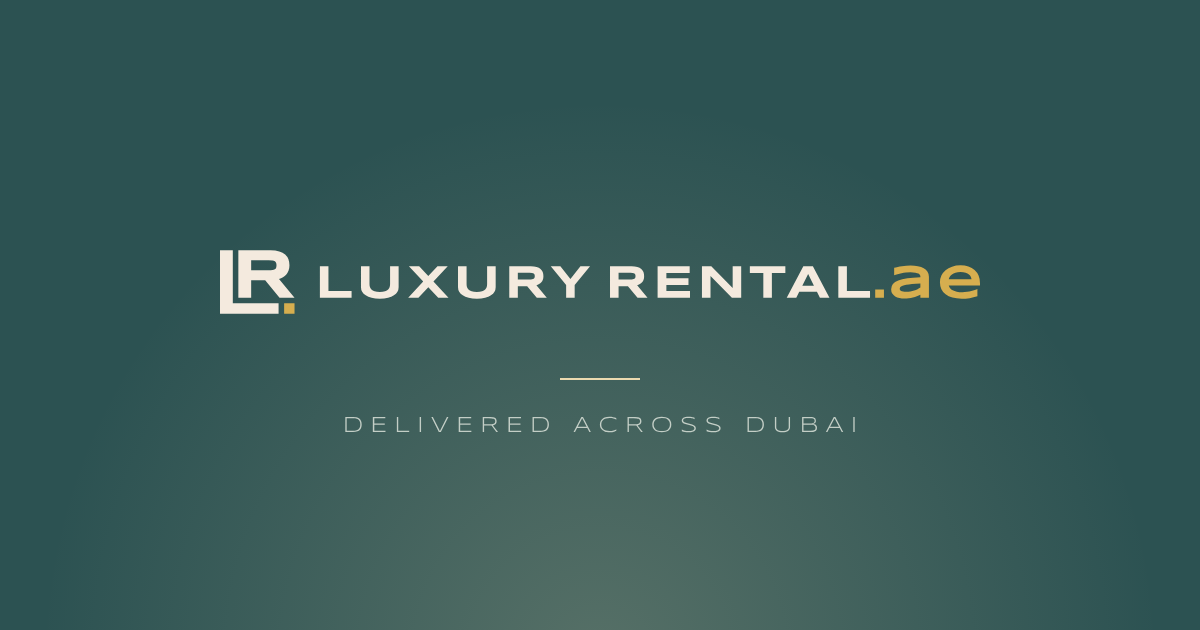
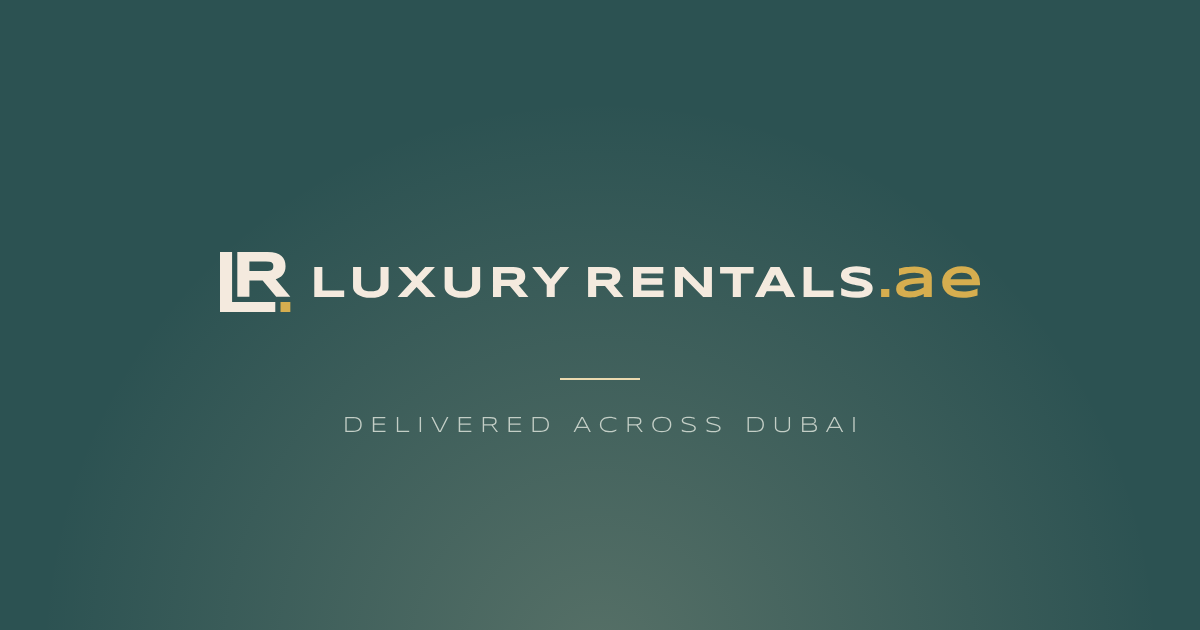
Rename the brand to LuxuryRentals.ae
Zubair corrected the brand: it is "LuxuryRentals.ae", not "LuxuryRental.ae".

- Logo: wordmark regenerated from docs/brand/source with "LUXURY RENTALS"
  (new kerning for LS and S.), every file in the pack, Logo.tsx, the
  master artboard and the share template.
- Site: brandName, domain luxuryrentals.ae, www URL and the bookings,
  privacy and ops emails; manifest, page titles (en/ar), the ops email
  sender, the car share images and the legal Terms of Use.
- Header: the wider wordmark was being squeezed below 100 px between
  1024 and 1279 px (since the language switch was added), so the desktop
  text menu now starts at 1280 px and smaller laptops use the menu button.
- Docs: current docs and plans renamed; past records (thread, plan
  answers, prototype) keep the old spelling, with a correction note.

Claude-Session: https://claude.ai/code/session_014oyyY9etPpEEpY1aKo6VXx

Changed region(s): [[0.185, 0.3921, 0.8017, 0.5127]]

diff --git a/src/components/brand/Logo.tsx b/src/components/brand/Logo.tsx
@@ -1,15 +1,15 @@
 import clsx from "clsx";
 
-// LuxuryRental.ae logo, direction "Corner". Outlines are Syncopate Bold (SIL OFL 1.1),
+// LuxuryRentals.ae logo, direction "Corner". Outlines are Syncopate Bold (SIL OFL 1.1),
 // generated by docs/brand/source/brandkit.py: edit the source, not these paths.
 // Letters use currentColor; the ".ae" and the monogram's full-stop square use the logo gold
 // (Burnished Gold, deeper than the Antique Gold of the buttons).
 // Usage rules: docs/brand/logo.md. Files for everything else: public/brand/.
 
 const LOCKUP = {
-  viewBox: "0 0 2397.4 200",
-  letters: "M0 200V0h40.4v200Zm0 0v-32.8h184.8V200Zm98.3-50.3H57.9V0h101.3q16.4 0 27.8 3.4t18.5 9.6 10.4 15q3.2 8.7 3.2 19.5 0 9.5-2.7 16.6t-7.2 12.1-10.5 8.6-12.6 5.8l49 59.1h-47.3l-45.3-55.1H98.3Zm79.9-102.4q0-4.4-1.1-7.4-1.2-3.1-4-5-2.9-1.9-7.6-2.8t-11.8-.8H98.3v32h55.4q7.1 0 11.8-.9t7.6-2.7 4-5q1.1-3 1.1-7.4M315.1 150V50h27v78.1h73V150Zm248.4-33.7q0 7.5-3.7 14.1T548.6 142t-18.5 7.8-25.9 2.9-26-2.9-18.6-7.8q-7.5-5-11.2-11.6t-3.7-14.1V50h26.9v56.6q0 5 1.3 9.5t4.8 7.8 9.9 5.4q6.4 1.9 16.6 1.9 10.1 0 16.4-1.9 6.4-2 9.9-5.4 3.5-3.3 4.7-7.8t1.3-9.5V50h27zm109.8-17.6 47.5 51.3h-32.4l-31.3-33.7-31.2 33.7h-32.3L641 98.7 595.9 50h32.4l28.8 31.3L686 50h32.4Zm196.3 17.6q0 7.5-3.7 14.1T854.8 142q-7.5 4.9-18.6 7.8t-25.9 2.9-26-2.9-18.6-7.8-11.2-11.6-3.7-14.1V50h27v56.6q0 5 1.2 9.5 1.3 4.5 4.8 7.8 3.6 3.4 9.9 5.4 6.4 1.9 16.6 1.9 10.1 0 16.4-1.9 6.4-2 9.9-5.4 3.5-3.3 4.8-7.8t1.2-9.5V50h27zm69.9 33.7h-27V50h67.7q10.9 0 18.6 2.3 7.6 2.2 12.3 6.4 4.8 4.1 6.9 10 2.2 5.8 2.2 13 0 6.4-1.8 11.1t-4.8 8.1-7 5.7q-4 2.4-8.5 3.9l32.8 39.5h-31.6L969 113.2h-29.5Zm53.4-68.4q0-2.9-.8-5-.7-2-2.6-3.3t-5.1-1.8-7.9-.6h-37v21.4h37q4.7 0 7.9-.6t5.1-1.9q1.9-1.2 2.6-3.3t.8-4.9m125.9 27.6V150h-26.9v-40.8L1043.4 50h30.3l31.7 40.2L1137 50h30.3Zm138.5 40.8h-27V50h67.7q10.9 0 18.5 2.3t12.4 6.4q4.7 4.1 6.9 10 2.1 5.8 2.1 13 0 6.4-1.7 11.1-1.8 4.7-4.8 8.1-3.1 3.4-7.1 5.7t-8.4 3.9l32.7 39.5h-31.5l-30.3-36.8h-29.5Zm53.4-68.4q0-2.9-.8-5-.8-2-2.7-3.3t-5-1.8q-3.2-.6-7.9-.6h-37v21.4h37q4.7 0 7.9-.6 3.1-.6 5-1.9t2.7-3.3.8-4.9m69.7 68.4V50h101.2v21.3h-73.5v16.5h69.7v21.4h-69.7v19.5h74.5V150Zm234.4 0-67.5-68.7V150h-27V50h29.4l67.5 69V50h26.9v100Zm126.1-78.2V150h-27V71.8h-42.5V50h112v21.8Zm142.1 59.3h-55.8l-9.3 18.9h-30.2l52.4-100h30.1l52.3 100h-30.1Zm-46.1-19.5h36.6l-18.2-36.9Zm113.6 38.4V50h27v78.1h73V150Z",
-  accent: "M202.3 200v-32.8h32.8V200Zm1864.5-50v-26.2h27.6V150Zm142.5 0v-9.8q-5.2 2.8-11.1 5-6 2.2-12.4 3.7t-13.2 2.3-13.7.8q-8.1 0-15.6-1.6-7.5-1.5-13.4-4.9-5.8-3.4-9.3-9t-3.5-13.5q0-10.1 5.5-16.9t16.9-11q11.3-4.3 28.7-6.6t41.1-3.6v-2.1q0-2.5-1.3-5-1.4-2.4-4.8-4.3-3.5-1.8-9.5-3t-15.3-1.1q-7.3 0-14.5.7-7.2.8-13.8 2.1t-12.7 3.1q-5.9 1.7-10.8 3.6v-24q5.1-1.3 11.4-2.6 6.3-1.2 13.2-2.1t13.8-1.5q7-.5 13.4-.5 12.6 0 23.2 2.1 10.7 2 18.3 6.4t12 11.1 4.4 15.9V150Zm0-45.6q-15.6.5-26.5 1.6t-18.1 2.6-11.3 3.1-6.1 3.4-2.6 3.5q-.4 1.8-.4 3.2 0 1.8.9 3.4 1 1.7 3.3 2.9 2.4 1.2 6.3 2 4 .7 9.9.7 6.6 0 13-1 6.3-1.1 12-2.8 5.7-1.8 10.7-4.3 4.9-2.4 8.9-5.2Zm179.9 40.7q-12.3 4-24.6 5.8-12.2 1.8-25.1 1.8-16.3 0-29.1-3.5-12.8-3.6-21.5-10.3t-13.3-16.3-4.6-21.9q0-11.4 4.6-21.1t13.1-16.9 20.5-11.2 26.8-4q13.6 0 24.9 3.6 11.3 3.7 19.4 10.9 8.2 7.2 12.6 17.8 4.5 10.5 4.5 24.3v6.7h-98.5q1.3 4.7 4.3 8.6 3 4 8.2 6.7t12.7 4.3 18 1.6q7.4 0 14.5-1 7.2-.9 13.4-2.4t11.1-3.3q5-1.8 8.1-3.6ZM2370.5 91q-.3-3.7-2.2-7.7-1.8-4-5.8-7.2t-10.5-5.2-16.2-2.1q-9.1 0-15.7 2.2t-11.1 5.6-6.9 7.2-3.2 7.2Z",
+  viewBox: "0 0 2540.1 200",
+  letters: "M0 200V0h40.4v200Zm0 0v-32.8h184.8V200Zm98.3-50.3H57.9V0h101.3q16.4 0 27.8 3.4t18.5 9.6 10.4 15q3.2 8.7 3.2 19.5 0 9.5-2.7 16.6t-7.2 12.1-10.5 8.6-12.6 5.8l49 59.1h-47.3l-45.3-55.1H98.3Zm79.9-102.4q0-4.4-1.1-7.4-1.2-3.1-4-5-2.9-1.9-7.6-2.8t-11.8-.8H98.3v32h55.4q7.1 0 11.8-.9t7.6-2.7 4-5q1.1-3 1.1-7.4M315.1 150V50h27v78.1h73V150Zm248.4-33.7q0 7.5-3.7 14.1T548.6 142t-18.5 7.8-25.9 2.9-26-2.9-18.6-7.8q-7.5-5-11.2-11.6t-3.7-14.1V50h26.9v56.6q0 5 1.3 9.5t4.8 7.8 9.9 5.4q6.4 1.9 16.6 1.9 10.1 0 16.4-1.9 6.4-2 9.9-5.4 3.5-3.3 4.7-7.8t1.3-9.5V50h27zm109.8-17.6 47.5 51.3h-32.4l-31.3-33.7-31.2 33.7h-32.3L641 98.7 595.9 50h32.4l28.8 31.3L686 50h32.4Zm196.3 17.6q0 7.5-3.7 14.1T854.8 142q-7.5 4.9-18.6 7.8t-25.9 2.9-26-2.9-18.6-7.8-11.2-11.6-3.7-14.1V50h27v56.6q0 5 1.2 9.5 1.3 4.5 4.8 7.8 3.6 3.4 9.9 5.4 6.4 1.9 16.6 1.9 10.1 0 16.4-1.9 6.4-2 9.9-5.4 3.5-3.3 4.8-7.8t1.2-9.5V50h27zm69.9 33.7h-27V50h67.7q10.9 0 18.6 2.3 7.6 2.2 12.3 6.4 4.8 4.1 6.9 10 2.2 5.8 2.2 13 0 6.4-1.8 11.1t-4.8 8.1-7 5.7q-4 2.4-8.5 3.9l32.8 39.5h-31.6L969 113.2h-29.5Zm53.4-68.4q0-2.9-.8-5-.7-2-2.6-3.3t-5.1-1.8-7.9-.6h-37v21.4h37q4.7 0 7.9-.6t5.1-1.9q1.9-1.2 2.6-3.3t.8-4.9m125.9 27.6V150h-26.9v-40.8L1043.4 50h30.3l31.7 40.2L1137 50h30.3Zm138.5 40.8h-27V50h67.7q10.9 0 18.5 2.3t12.4 6.4q4.7 4.1 6.9 10 2.1 5.8 2.1 13 0 6.4-1.7 11.1-1.8 4.7-4.8 8.1-3.1 3.4-7.1 5.7t-8.4 3.9l32.7 39.5h-31.5l-30.3-36.8h-29.5Zm53.4-68.4q0-2.9-.8-5-.8-2-2.7-3.3t-5-1.8q-3.2-.6-7.9-.6h-37v21.4h37q4.7 0 7.9-.6 3.1-.6 5-1.9t2.7-3.3.8-4.9m69.7 68.4V50h101.2v21.3h-73.5v16.5h69.7v21.4h-69.7v19.5h74.5V150Zm234.4 0-67.5-68.7V150h-27V50h29.4l67.5 69V50h26.9v100Zm126.1-78.2V150h-27V71.8h-42.5V50h112v21.8Zm142.1 59.3h-55.8l-9.3 18.9h-30.2l52.4-100h30.1l52.3 100h-30.1Zm-46.1-19.5h36.6l-18.2-36.9Zm113.6 38.4V50h27v78.1h73V150ZM2173 78.2q-2.8-1.4-7.5-3.2-4.6-1.7-10.5-3.3t-12.8-2.6T2128 68q-5.9 0-10 .4t-6.9 1-4.4 1.3-2.5 1.6-1.2 1.6l-.2 1.4q0 2.2 2.2 3.8 2.2 1.7 5.9 3 3.8 1.2 8.8 2.4l10.7 2.3 11.7 2.6q6 1.4 11.6 3.3t10.7 4.4 8.8 5.9 5.9 7.7 2.2 10q0 7.2-2.5 12.3-2.6 5.2-6.8 8.8-4.3 3.5-9.9 5.7-5.6 2.1-11.7 3.3-6.2 1.2-12.5 1.5t-12 .4q-14.8 0-27.4-2.4-12.7-2.5-22.3-6.1v-23.9q9.9 5.5 22.7 8.7t27.3 3.1q8.6 0 14-.9t8.5-2.3 4.2-3.1 1.1-3.2q0-2.4-2.2-4.2t-6-3.2q-3.8-1.3-8.8-2.4-5-1.2-10.7-2.3l-11.6-2.4q-5.9-1.3-11.6-3.1t-10.6-4.2q-5.1-2.3-8.9-5.6-3.7-3.2-5.9-7.5t-2.2-9.8q0-6.6 2.3-11.5 2.4-4.8 6.3-8.1 4-3.4 9.2-5.5t10.9-3.3 11.7-1.6 11.2-.4q5.8 0 12 .5 6.1.6 12.1 1.7 6 1 11.5 2.4T2173 55Z",
+  accent: "M202.3 200v-32.8h32.8V200Zm2007.3-50v-26.2h27.5V150Zm142.4 0v-9.8q-5.2 2.8-11.1 5t-12.3 3.7-13.3 2.3-13.7.8q-8.1 0-15.6-1.6-7.5-1.5-13.3-4.9t-9.4-9-3.5-13.5q0-10.1 5.5-16.9t16.9-11q11.3-4.3 28.7-6.6t41.1-3.6v-2.1q0-2.5-1.3-5-1.3-2.4-4.8-4.3-3.4-1.8-9.4-3t-15.4-1.1q-7.3 0-14.5.7-7.2.8-13.8 2.1t-12.6 3.1-10.9 3.6v-24q5.1-1.3 11.4-2.6 6.4-1.2 13.2-2.1 6.9-.9 13.8-1.5t13.4-.5q12.6 0 23.2 2.1 10.7 2 18.4 6.4t12 11.1 4.3 15.9V150Zm0-45.6q-15.6.5-26.5 1.6t-18.1 2.6-11.3 3.1-6.1 3.4q-2.1 1.8-2.5 3.5-.5 1.8-.5 3.2 0 1.8.9 3.4 1 1.7 3.4 2.9 2.3 1.2 6.2 2 4 .7 9.9.7 6.7 0 13-1 6.3-1.1 12-2.8 5.7-1.8 10.7-4.3 5-2.4 8.9-5.2Zm179.9 40.7q-12.3 4-24.6 5.8-12.2 1.8-25 1.8-16.4 0-29.2-3.5-12.8-3.6-21.5-10.3t-13.3-16.3-4.6-21.9q0-11.4 4.6-21.1 4.7-9.7 13.1-16.9 8.5-7.2 20.5-11.2t26.8-4q13.6 0 24.9 3.6 11.3 3.7 19.5 10.9t12.6 17.8q4.4 10.5 4.4 24.3v6.7h-98.5q1.3 4.7 4.3 8.6 3 4 8.2 6.7t12.7 4.3 18 1.6q7.4 0 14.6-1t13.3-2.4 11.2-3.3q4.9-1.8 8-3.6ZM2513.3 91q-.4-3.7-2.2-7.7t-5.9-7.2-10.5-5.2q-6.5-2.1-16.1-2.1-9.1 0-15.8 2.2-6.6 2.3-11.1 5.6-4.4 3.4-6.9 7.2t-3.2 7.2Z",
 };
 
 const MONOGRAM = {
@@ -18,10 +18,11 @@ const MONOGRAM = {
   accent: "M101.1 100V83.6h16.4V100Z",
 };
 
-// Header and footer sizes: about 206 px wide on small phones (wordmark cap height ~8.5 px,
-// like the prototype's 12 px text logo), larger from 400 px, held back at lg so the
-// desktop nav fits. max-w-full lets it shrink inside narrow footer columns.
-const LOCKUP_SIZE = "w-[206px] min-[400px]:w-[236px] sm:w-[280px] lg:w-[236px] xl:w-[290px]";
+// Header and footer sizes: about 218 px wide on small phones (wordmark cap height ~8.5 px,
+// like the prototype's 12 px text logo), larger from 400 px. The desktop nav only appears
+// from xl, so the logo keeps its size up to there. max-w-full lets it shrink inside narrow
+// footer columns and on the smallest phones.
+const LOCKUP_SIZE = "w-[218px] min-[400px]:w-[250px] sm:w-[296px] xl:w-[306px]";
 const MONOGRAM_SIZE = "w-9";
 
 export function Logo({ className, compact = false }: { className?: string; compact?: boolean }) {
@@ -30,7 +31,7 @@ export function Logo({ className, compact = false }: { className?: string; compa
     <svg
       viewBox={art.viewBox}
       role="img"
-      aria-label="LuxuryRental.ae"
+      aria-label="LuxuryRentals.ae"
       preserveAspectRatio="xMinYMid meet"
       className={clsx("block h-auto max-w-full text-fg", className ?? (compact ? MONOGRAM_SIZE : LOCKUP_SIZE))}
     >

diff --git a/src/app/[lang]/cars/[brand]/[model]/opengraph-image.tsx b/src/app/[lang]/cars/[brand]/[model]/opengraph-image.tsx
@@ -19,7 +19,7 @@ import arFleet from "@/messages/ar/fleet.json";
 // in Noto Kufi Arabic (OFL, assets/fonts) and placed as images; the layout mirrors, the car
 // picture and the wordmark don't. Brand and model names stay in Latin script, in Syncopate.
 
-export const alt = "A car available to rent in Dubai from LuxuryRental.ae";
+export const alt = "A car available to rent in Dubai from LuxuryRentals.ae";
 export const size = { width: 1200, height: 630 };
 export const contentType = "image/png";
 
@@ -61,7 +61,7 @@ export default async function Image({ params }: { params: Promise<{ lang: string
   const t = (key: string, vars?: Record<string, string | number>) => translate(ar ? messages.ar : messages.en, key, vars);
   const car = getCarByPath(brand, model);
   const [[bold, regular], logoSrc, hero] = await Promise.all([fonts, logo, cardSrc(car ? carMedia[car.slug]?.card : undefined)]);
-  const name = car?.model ?? "LuxuryRental.ae";
+  const name = car?.model ?? "LuxuryRentals.ae";
   const make = car ? getBrand(car.brand)?.name ?? "" : "";
   const price = car ? t(car.rates.onRequest ? "og.priceOnRequest" : "og.price", { price: formatAED(car.rates.daily, lang) }) : "";
 
@@ -81,7 +81,7 @@ export default async function Image({ params }: { params: Promise<{ lang: string
         {hero && <img src={hero} width={840} height={630} alt="" style={{ position: "absolute", top: 0, [side]: 0, width: 840, height: 630 }} />}
         <div style={{ position: "absolute", top: 0, bottom: 0, [edge]: 360, width: 220, display: "flex", background: `linear-gradient(${ar ? 270 : 90}deg, #1d3c3c 0%, rgba(29,60,60,0) 100%)` }} />
         <div style={{ position: "absolute", top: 52, [edge]: 60, display: "flex" }}>
-          <img src={logoSrc} width={330} height={28} alt="" />
+          <img src={logoSrc} width={356} height={28} alt="" />
         </div>
         <div style={{ position: "absolute", [edge]: 60, bottom: 64, display: "flex", flexDirection: "column", alignItems: ar ? "flex-end" : "flex-start", width: 420 }}>
           <div style={{ fontSize: 22, letterSpacing: 6, color: "#ebdab0", fontWeight: 400 }}>{make.toUpperCase()}</div>

diff --git a/src/content/site.ts b/src/content/site.ts
@@ -4,17 +4,17 @@
 // While `sampleDetails` is true, the footer and About page say they are samples.
 
 export const site = {
-  brandName: "LuxuryRental.ae", // wordmark, approved 23 Oct 2026
+  brandName: "LuxuryRentals.ae", // wordmark and domain (corrected from "LuxuryRental.ae" by Zubair, 26 Oct 2026)
   businessName: "Luxuryrentals", // trade name: legal text, footer, Google Business
   legalName: "Luxuryrentals Car Rental L.L.C.", // assumed
-  domain: "luxuryrental.ae",
-  url: "https://www.luxuryrental.ae",
+  domain: "luxuryrentals.ae",
+  url: "https://www.luxuryrentals.ae",
   whatsapp: "971529652722", // wa.me format
   whatsappDisplay: "+971 52 965 2722",
   phone: "+971 52 965 2722",
-  email: "bookings@luxuryrental.ae",
-  privacyEmail: "privacy@luxuryrental.ae",
-  opsEmail: "ops@luxuryrental.ae", // ops alerts and request emails (assumed)
+  email: "bookings@luxuryrentals.ae",
+  privacyEmail: "privacy@luxuryrentals.ae",
+  opsEmail: "ops@luxuryrentals.ae", // ops alerts and request emails (assumed)
   address: {
     line1: "Office 1208, Silicon Oasis HQ", // assumed
     area: "Dubai Silicon Oasis",

diff --git a/src/components/layout/MobileMenu.tsx b/src/components/layout/MobileMenu.tsx
@@ -19,7 +19,7 @@ export function MobileMenu({ nav, groups, labels, reserveHref, account }: { nav:
 
   return (
     <>
-      <button type="button" className="inline-flex h-11 w-11 items-center justify-center rounded-full border border-line text-fg lg:hidden" aria-label={labels.menu} aria-haspopup="dialog" onClick={() => ref.current?.showModal()}>
+      <button type="button" className="inline-flex h-11 w-11 items-center justify-center rounded-full border border-line text-fg xl:hidden" aria-label={labels.menu} aria-haspopup="dialog" onClick={() => ref.current?.showModal()}>
         <Menu className="h-5 w-5" aria-hidden="true" />
       </button>
       <dialog ref={ref} className="m-0 h-dvh max-h-none w-full max-w-none bg-bg/95 p-0 text-fg backdrop:bg-bg/60 [&:not([open])]:hidden" aria-label={labels.menu} onClick={(e) => { if (e.target === e.currentTarget) e.currentTarget.close(); }}>

diff --git a/src/components/layout/Header.tsx b/src/components/layout/Header.tsx
@@ -31,7 +31,7 @@ export async function Header() {
         <Link href={href("/")} className="inline-flex min-h-11 items-center no-underline" aria-label={t("nav.homeLabel", { brand: site.brandName })}>
           <Logo />
         </Link>
-        <nav aria-label={t("nav.label")} className="hidden items-center gap-1 lg:flex">
+        <nav aria-label={t("nav.label")} className="hidden items-center gap-1 xl:flex">
           {nav.map((item) => (
             <Link key={item.href} href={item.href} className="inline-flex min-h-11 items-center px-3.5 text-[11px] font-semibold uppercase tracking-[0.18em] text-muted no-underline transition-colors hover:text-fg">
               {item.label}

diff --git a/src/components/booking/OpsDesk.tsx b/src/components/booking/OpsDesk.tsx
@@ -64,7 +64,7 @@ function EmailPreview({ b, onAction, pending }: { b: BookingRecord; onAction: (t
     <div className="grid gap-5">
       <Rows
         rows={[
-          { label: t("ops.emailFrom"), value: <bdi dir="ltr">{`Luxuryrental.ae website <no-reply@${site.domain}>`}</bdi> },
+          { label: t("ops.emailFrom"), value: <bdi dir="ltr">{`LuxuryRentals.ae website <no-reply@${site.domain}>`}</bdi> },
           { label: t("ops.emailTo"), value: <bdi dir="ltr">{site.email}</bdi> },
           { label: t("ops.emailSubject"), value: t("ops.emailSubjectText", { ref: isolateFor(locale)(b.ref), car: isolateFor(locale)(b.carName), when: lines.when }) },
         ]}

diff --git a/src/components/content/meta.ts b/src/components/content/meta.ts
@@ -4,7 +4,7 @@ import { alternatesFor, ogLocaleFor } from "@/i18n/metadata";
 import { site } from "@/content/site";
 
 // Metadata for the content pages (workstream 07 §7.2 templates). The root layout adds
-// " | LuxuryRental.ae" through its title template. `path` is the unprefixed path ("/pricing");
+// " | LuxuryRentals.ae" through its title template. `path` is the unprefixed path ("/pricing");
 // the canonical URL follows the page's locale, with hreflang alternates for every locale.
 export async function pageMetadata({ title, description, path }: { title: string; description: string; path: string }): Promise<Metadata> {
   const locale = await getLocale();

diff --git a/src/content/pages/legal.ts b/src/content/pages/legal.ts
@@ -529,7 +529,7 @@ export const legalDocs: LegalDoc[] = [
     version: VERSION,
     updated: legalUpdated,
     summary: `The rules for using ${site.domain}. Renting a car is covered separately by our Terms of Rental and the rental agreement.`,
-    meta: { title: "Website Terms of Use", description: "Terms for using the LuxuryRental.ae website: content and prices, illustrative images, trademarks, acceptable use and links." },
+    meta: { title: "Website Terms of Use", description: "Terms for using the LuxuryRentals.ae website: content and prices, illustrative images, trademarks, acceptable use and links." },
     sections: [
       {
         id: "about",

diff --git a/src/app/[lang]/page.tsx b/src/app/[lang]/page.tsx
@@ -16,7 +16,7 @@ import { HomeDock } from "@/components/home/Islands";
 
 export async function generateMetadata(): Promise<Metadata> {
   const [t, locale] = await Promise.all([getT("home"), getLocale()]);
-  // The layout's "%s | LuxuryRental.ae" template doesn't reach a page in its own segment.
+  // The layout's "%s | LuxuryRentals.ae" template doesn't reach a page in its own segment.
   return { title: { absolute: `${t("meta.title")} | ${site.brandName}` }, description: t("meta.description"), alternates: alternatesFor(locale, "/") };
 }
 

diff --git a/src/app/globals.css b/src/app/globals.css
@@ -1,6 +1,6 @@
 @import "tailwindcss";
 
-/* LuxuryRental.ae design tokens (docs/design-system/luxuryrental-ae/MASTER.md).
+/* LuxuryRentals.ae design tokens (docs/design-system/luxuryrental-ae/MASTER.md).
    Palette (23 Oct 2026): Sea Moss #2C5252 (background and brand), Antique Gold #EBDAB0
    (calls to action), Alabaster #F4EADE (type and space). Surfaces sit slightly deeper than
    the background. Every text pair is contrast-checked (qa/scripts/contrast.py).

diff --git a/src/app/manifest.ts b/src/app/manifest.ts
@@ -2,8 +2,8 @@ import type { MetadataRoute } from "next";
 
 export default function manifest(): MetadataRoute.Manifest {
   return {
-    name: "LuxuryRental.ae",
-    short_name: "LuxuryRental",
+    name: "LuxuryRentals.ae",
+    short_name: "LuxuryRentals",
     description: "Luxury car rental in Dubai, delivered.",
     start_url: "/",
     display: "standalone",

diff --git a/docs/brand/source/export.py b/docs/brand/source/export.py
@@ -1,4 +1,4 @@
-"""Build the whole LuxuryRental.ae logo pack and copy it into the repo.
+"""Build the whole LuxuryRentals.ae logo pack and copy it into the repo.
 
 python export.py [--no-repo]
 """
@@ -103,7 +103,7 @@ hvb, hfg, hac = optimised_paths(H, "lockup")
 mvb, mfg, mac = optimised_paths(M, "mono")
 tsx = f'''import clsx from "clsx";
 
-// LuxuryRental.ae logo, direction "Corner". Outlines are Syncopate Bold (SIL OFL 1.1),
+// LuxuryRentals.ae logo, direction "Corner". Outlines are Syncopate Bold (SIL OFL 1.1),
 // generated by docs/brand/source/brandkit.py: edit the source, not these paths.
 // Letters use currentColor; the ".ae" and the monogram's full-stop square use the logo gold
 // (Burnished Gold, deeper than the Antique Gold of the buttons).
@@ -121,10 +121,11 @@ const MONOGRAM = {{
   accent: "{mac}",
 }};
 
-// Header and footer sizes: about 206 px wide on small phones (wordmark cap height ~8.5 px,
-// like the prototype's 12 px text logo), larger from 400 px, held back at lg so the
-// desktop nav fits. max-w-full lets it shrink inside narrow footer columns.
-const LOCKUP_SIZE = "w-[206px] min-[400px]:w-[236px] sm:w-[280px] lg:w-[236px] xl:w-[290px]";
+// Header and footer sizes: about 218 px wide on small phones (wordmark cap height ~8.5 px,
+// like the prototype's 12 px text logo), larger from 400 px. The desktop nav only appears
+// from xl, so the logo keeps its size up to there. max-w-full lets it shrink inside narrow
+// footer columns and on the smallest phones.
+const LOCKUP_SIZE = "w-[218px] min-[400px]:w-[250px] sm:w-[296px] xl:w-[306px]";
 const MONOGRAM_SIZE = "w-9";
 
 export function Logo({{ className, compact = false }}: {{ className?: string; compact?: boolean }}) {{
@@ -133,7 +134,7 @@ export function Logo({{ className, compact = false }}: {{ className?: string; co
     <svg
       viewBox={{art.viewBox}}
       role="img"
-      aria-label="LuxuryRental.ae"
+      aria-label="LuxuryRentals.ae"
       preserveAspectRatio="xMinYMid meet"
       className={{clsx("block h-auto max-w-full text-fg", className ?? (compact ? MONOGRAM_SIZE : LOCKUP_SIZE))}}
     >
